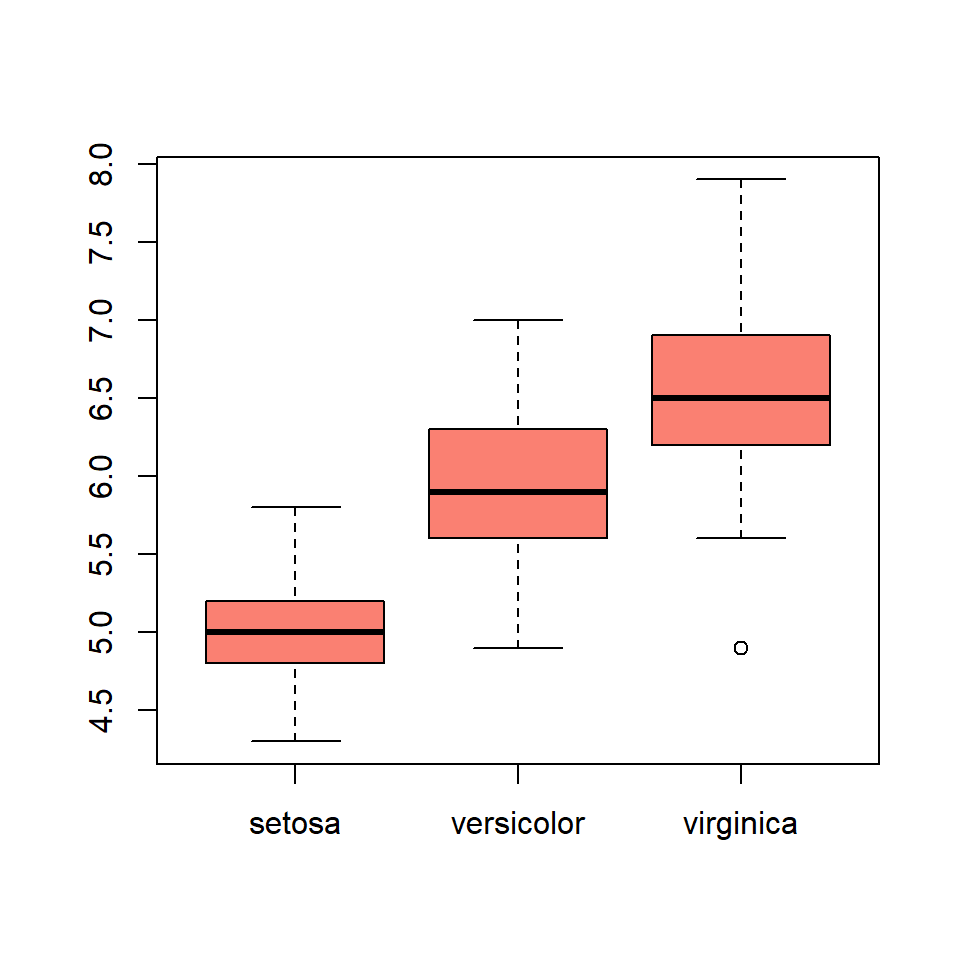
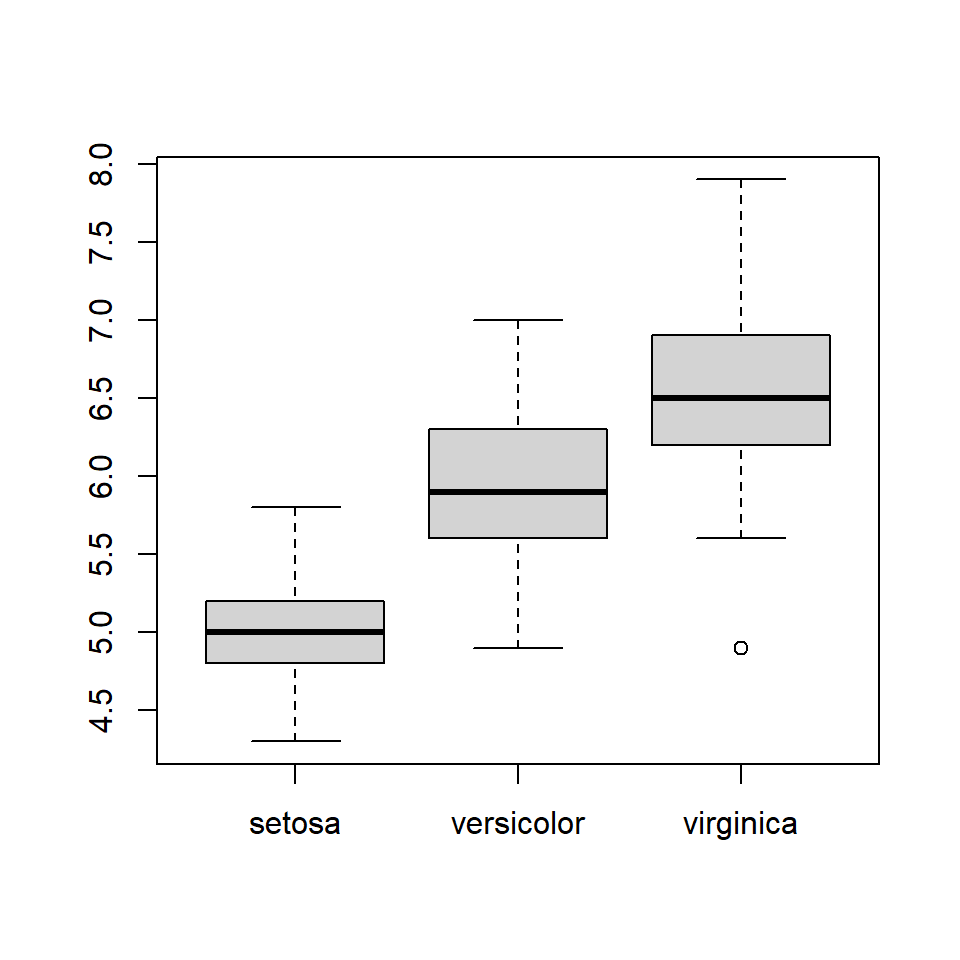
Edits: r01_rbasics.Rmd

Changed region(s): [[0.4375, 0.3438, 0.875, 0.5625], [0.2188, 0.625, 0.4062, 0.6875]]

diff --git a/docs/r01_rbasics.html b/docs/r01_rbasics.html
@@ -1101,7 +1101,7 @@ axis(2, las = 2) # 2: draw y-axis, las = 2: make axis lables horizontal</code></
 <p><strong>Box color</strong><br />
 <code>col</code> argument.</p>
 <pre class="r"><code>boxplot(Sepal.Length ~ Species, data = iris,
-        col = &quot;salmon&quot;)</code></pre>
+        col = &quot;lightgray&quot;)</code></pre>
 <p><img src="r01_rbasics_files/figure-html/unnamed-chunk-51-1.png" width="480" /></p>
 <p><strong>Border color</strong><br />
 <code>border</code> argument.</p>
@@ -1109,16 +1109,16 @@ axis(2, las = 2) # 2: draw y-axis, las = 2: make axis lables horizontal</code></
         col = &quot;lightgray&quot;, border = &quot;gray&quot;)</code></pre>
 <p><img src="r01_rbasics_files/figure-html/unnamed-chunk-52-1.png" width="480" /></p>
 <p><strong>Box width</strong><br />
-<code>width</code> argument. Provide a vector with the number of factor levels (three in this case as there are three species on x-axis).</p>
+<code>boxwex</code> argument.</p>
 <pre class="r"><code>boxplot(Sepal.Length ~ Species, data = iris,
         col = &quot;lightgray&quot;, border = &quot;gray&quot;,
-        width = rep(0.5, 3) )</code></pre>
+        boxwex = 0.4 )</code></pre>
 <p><img src="r01_rbasics_files/figure-html/unnamed-chunk-53-1.png" width="480" /></p>
 <p><strong>Axis</strong><br />
 Delete axes with <code>axes = F</code> and re-draw with <code>box()</code> and <code>axis()</code> functions.</p>
 <pre class="r"><code>boxplot(Sepal.Length ~ Species, data = iris,
         col = &quot;lightgray&quot;, border = &quot;gray&quot;,
-        width = rep(0.5, 3), ylab = &quot;Sepal length (cm)&quot;,
+        boxwex = 0.4, ylab = &quot;Sepal length (cm)&quot;,
         axes = F)
 box(bty = &quot;l&quot;)
 axis(1, at = c(1, 2, 3), labels = c(&quot;Setosa&quot;, &quot;Versicolor&quot;, &quot;Virginica&quot;) )
